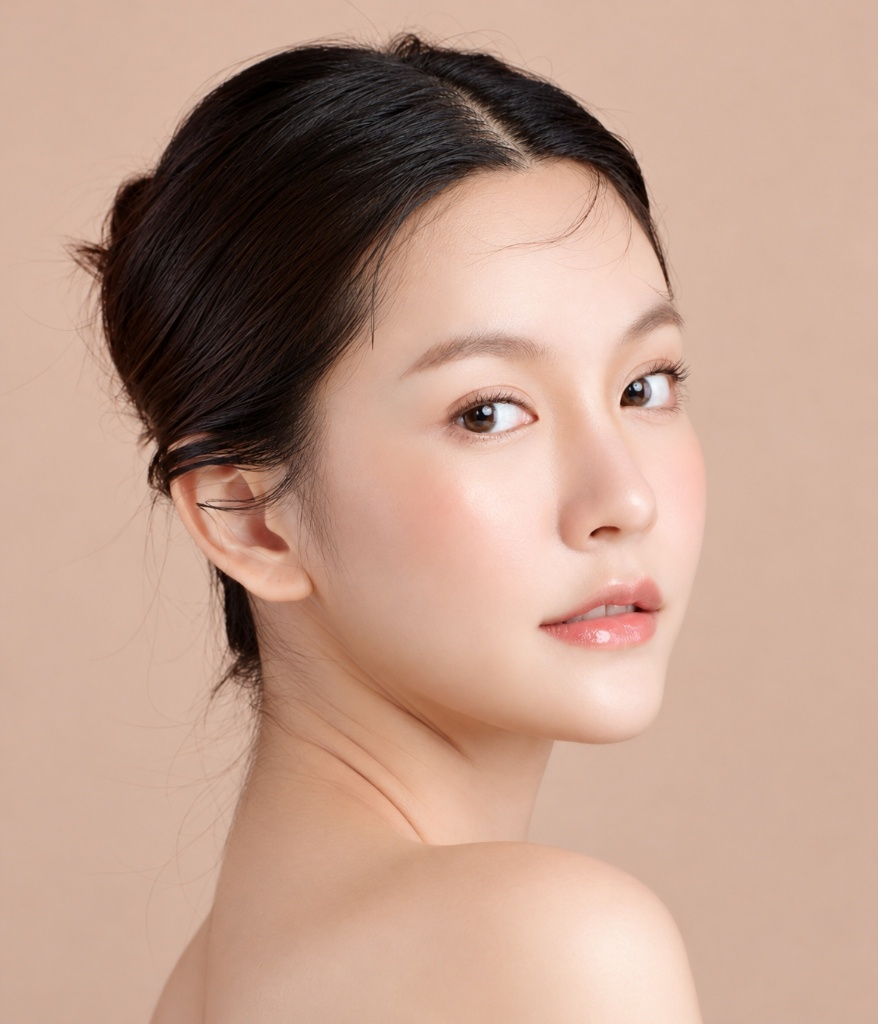
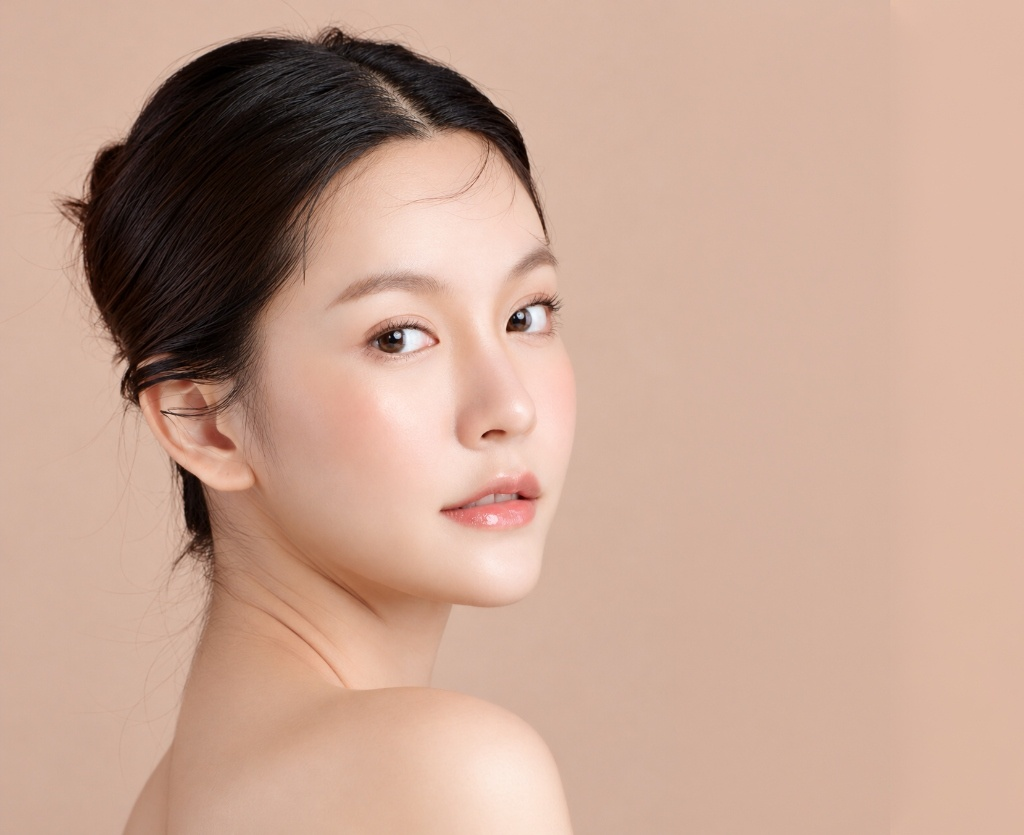
Update Promo 1 Oligio X with wider landscape model photography

diff --git a/specials-renderer.js b/specials-renderer.js
@@ -29,7 +29,7 @@ function renderNovemberSpecials(config) {
                         <div class="space-y-4">
                             <!-- Framed Promo Image (4:3 Ratio) -->
                             <div class="relative w-full aspect-[4/3] rounded-2xl overflow-hidden border border-black/5 shadow-sm bg-white">
-                                <img src="${stepItem.image}?v=130" alt="${stepItem.title}" class="w-full h-full object-cover object-center group-hover:scale-103 transition-transform duration-700">
+                                <img src="${stepItem.image}?v=131" alt="${stepItem.title}" class="w-full h-full object-cover object-center group-hover:scale-103 transition-transform duration-700">
                             </div>
 
                             <!-- Price Box (Cream Box with Dimensional Black/Gray Gradient Price Text) -->

diff --git a/specials-november.html b/specials-november.html
@@ -87,8 +87,8 @@
     <script src="script.js?v=51"></script>
 
     <!-- Load the November Configuration & Renderer -->
-    <script src="specials-november-data.js?v=130"></script>
-    <script src="specials-renderer.js?v=130"></script>
+    <script src="specials-november-data.js?v=131"></script>
+    <script src="specials-renderer.js?v=131"></script>
     <script>
         document.addEventListener('DOMContentLoaded', () => {
             const container = document.getElementById('specials-container');
